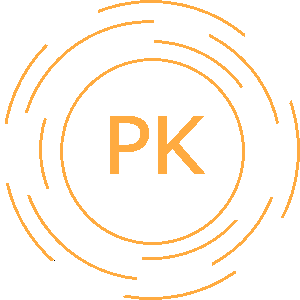
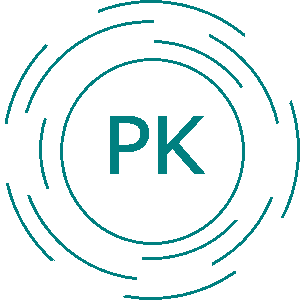
Skills Recolor - Complete. Projects  Recolor - Nav Completed. Contact Recolor Complete. About - Unchanged

diff --git a/src/Layout.js b/src/Layout.js
@@ -20,8 +20,10 @@ class Layout extends Component {
         super();
         this.state = {
             current: "home",
+            custom: "Software Engineer"
         };
     }
+
     inView(elem) {
         var docViewTop = $(window).scrollTop();
         var docViewBottom = docViewTop + $(window).height();
@@ -33,6 +35,13 @@ class Layout extends Component {
     }
 
     componentDidMount() {
+        var link = window.location.href;
+        var custom = link.split("sp=");
+        //console.log(decodeURI(custom[1]));
+        if(custom.length === 2){
+            this.setState({custom: custom[1].replace('+', ' ')});
+        }
+
         // document.getElementById('home').scrollIntoView({block: "end", inline: "nearest", behavior: "smooth"});
         window.history.replaceState(null, '', "/");
         this.scrollSpy();
@@ -49,6 +58,10 @@ class Layout extends Component {
 
     }
 
+    componentWillUnmount() {
+        $(window).unbind('beforeunload');
+    }
+
     scrollSpy() {
         if(this.inView("#homeFinder")){
             if(this.state.current !== "home") {
@@ -59,8 +72,10 @@ class Layout extends Component {
                 if(firstAbout) {
                     if(window.innerWidth > 300) {
                         firstAbout = false;
-                        $("#aboutLeft").fadeIn(2000);
-                        $("#aboutRight").fadeIn(2000);
+                        $("#aboutLeft").fadeIn(1000);
+                        $("#aboutRight").fadeIn(1000, function() {
+                            //$("#aboutBody").addClass('animated bounceInRight');
+                        });
                     }
                 }
                 this.changeNavColor("about");
@@ -70,6 +85,8 @@ class Layout extends Component {
                 if (firstSkill) {
                     firstSkill = false;
                     this.refs.skills.startTyping();
+                    window.Materialize.toast('Click on the Icons!', 2500);
+
                 }
                 this.changeNavColor("skills");
             }
@@ -106,7 +123,7 @@ class Layout extends Component {
                 <Row>
                     <Col s={12}>
                         <Home ref="home"/>
-                        <About ref="about"/>
+                        <About occupation={this.state.custom} ref="about"/>
                         <Skills ref="skills"/>
                         <Projects ref="projects"/>
                         <Contact ref="contact"/>

diff --git a/src/About.js b/src/About.js
@@ -2,11 +2,20 @@ import React, { Component } from 'react';
 import './css/About.css'
 import pkkanPhoto from './assets/pkkan-photo.jpg';
 import {Chip} from 'react-materialize';
+import $ from 'jquery';
 
 class About extends Component {
+    hover() {
+        $("#pk_photo").addClass('animated bounce');
+        //$("#pk_photo").removeClass('animated bounce');
+        setTimeout(function() {
+            $("#pk_photo").removeClass('animated bounce');
+        }, 1000);
+    }
+
     render() {
         return (
-            <div id="about" className="scrollify" data-name="about">
+            <div id="about" className="scrollify" data-name="aboutme">
                 <div id="aboutFinder" className="finder"></div>
                 <div id="aboutTop">
                     <div id="aboutTopLeft"></div>
@@ -14,7 +23,7 @@ class About extends Component {
                 </div>
                 <div id="aboutLeft">
                     <div id="aboutCenter">
-                        <img src={pkkanPhoto} alt="head-shot"/>
+                        <img id="pk_photo" onMouseOver={this.hover.bind(this)} src={pkkanPhoto} alt="head-shot"/>
                         <div id="hobbies">
                             <p>Interests &amp; Hobbies: </p>
                             <Chip>Film</Chip>
@@ -27,7 +36,12 @@ class About extends Component {
                 </div>
                 <div id="aboutRight">
                     <div id="aboutBody">
-                        <p>o k</p>
+                        <div id="aboutBodyTop">
+                            <h2>Hi, I'm Pranay. A {this.props.occupation}.</h2>
+                        </div>
+                        <div id="aboutBodyBot">
+                            <p></p>
+                        </div>
                     </div>
                 </div>
             </div>

diff --git a/src/Skills.js b/src/Skills.js
@@ -2,13 +2,13 @@ import React, { Component } from 'react';
 import './css/Skills.css';
 import {Carousel} from 'react-materialize'
 import $ from 'jquery';
-import cplus from './assets/c++-icon.png';
-import csharp from './assets/c-sharp-icon.png';
-import java from './assets/java-icon.png';
-import javascript from './assets/javascript-icon.png';
-import php from './assets/php-icon.png';
-import python from './assets/python-icon.png';
-import reacticon from './assets/react-icon.png';
+import cplus from './assets/c++-icon.svg';
+import csharp from './assets/c-sharp-icon.svg';
+import java from './assets/java-icon.svg';
+import javascript from './assets/javascript-icon.svg';
+import php from './assets/php-icon.svg';
+import python from './assets/python-icon.svg';
+import reacticon from './assets/react-icon.svg';
 import resume from './assets/Resume.pdf';
 import Typer from './Typer.js'
 
@@ -28,7 +28,7 @@ class Skills extends Component {
 
     render() {
         return (
-            <div id="skills" className="scrollify" data-name="skills">
+            <div id="skills" className="scrollify" data-name="myskills">
                 <div id="skillsFinder" className="finder"></div>
                 <div id="skillsTop">
                     <h1 id="section">Skills</h1>

diff --git a/src/Home.js b/src/Home.js
@@ -5,6 +5,7 @@ import Typed from 'typed.js'
 
 class Home extends Component {
     componentDidMount() {
+        /*
         var colors = ['#F4D21F', '#1AACA8', '#9DCA40', '#DA5A98', '#E5683E',
             '#BC6D21', '#74BB63', '#DA1817', '#2283BC', '#31B495', '#1EB2D8',
             '#EB9D12', '#9DCA40', '#F4D21F', '#1EB2D8', '#E5683E', '#BE2F39',
@@ -30,6 +31,7 @@ class Home extends Component {
                 autoplay: true
             });
         }
+        */
         var options = {
             strings: ["","Web Development", "Mobile Development", "Data Science"],
             typeSpeed: 50,
@@ -42,7 +44,7 @@ class Home extends Component {
 
     render() {
         return (
-            <div id="home" className="scrollify" data-name="home">
+            <div id="home" className="scrollify" data-name="homepage">
                 <div id="homeFinder" className="finder"></div>
                 <div className="anim">
                     <svg xmlns="http://www.w3.org/2000/svg" viewBox="0 0 1400 700">

diff --git a/src/Nav.js b/src/Nav.js
@@ -13,8 +13,8 @@ const navColors  = {
     "home" : "#FFFFFF",
     "about" : "#556B2F",
     "skills" : "#2DA1A1",
-    "projects" : "#FFAB40",
-    "contact" : "#121212"
+    "projects" : "#008080",
+    "contact" : "#000000"
 };
 
 const navLogo  = {
@@ -54,7 +54,12 @@ class Nav extends Component {
         this.setState({logo: navLogo[b]});
     }
 
-
+    hover() {
+        $("#nav").addClass('animated jello');
+        setTimeout(function() {
+            $("#nav").removeClass('animated jello');
+        }, 1000);
+    }
 
     render() {
         return (
@@ -66,7 +71,7 @@ class Nav extends Component {
                     <NavButton ref="navProjects" name="projects"/>
                     <NavButton ref="navContact" name="contact"/>
                 </div>
-                <p><img src={this.state.logo} /></p>
+                <p id="navLogo" onMouseOver={this.hover.bind(this)}><img alt="Logo" src={this.state.logo} /></p>
             </div>
         );
     }

diff --git a/src/Contact.js b/src/Contact.js
@@ -155,7 +155,7 @@ class Contact extends Component {
 
     render() {
         return (
-            <Col s={12} id="contact" className="scrollify" data-name="contact">
+            <Col s={12} id="contact" className="scrollify" data-name="contactme">
                 <Col id="contactHeader" className="contactCenter" s={6}>
                     <Col s={11}>
                         <h2>Contact</h2>
@@ -193,9 +193,9 @@ class Contact extends Component {
                         </div>
                     </form>
                 </Col>
-                <footer>
+                {/*<footer>
                     <p>Designed and developed by Pranay Kandru<br></br>Skills Icons from <a href="https://icons8.com/">Icons8</a></p>
-                </footer>
+                </footer>*/}
             </Col>
         );
     }

diff --git a/src/css/Skills.scss b/src/css/Skills.scss
@@ -5,7 +5,7 @@
      * Original from  Toptal Subtle Patterns
      * at https://www.toptal.com/designers/subtlepatterns/japanese-sayagata/
      * by Olga Libby*/
-    background-image: url("../assets/sayagata-red.png");
+    background-image: url("../assets/sayagata-gray.png");
     font-family: $ubuntuFont;
     @include setMain(transparent);
     animation: moveReverseDiag 10s linear infinite;
@@ -81,7 +81,7 @@
     border-radius: 10px 10px 0 0;
     color: $colorWhite;
     font-family: $ubuntuFont;
-    padding: 10px 10px 0 10px;
+    padding: 20px 20px 0 20px;
 }
 
 .typed-cursor{
@@ -91,7 +91,7 @@
 }
 
 #typedSpan {
-    white-space: pre;
+    white-space: pre-line;
 }
 
 #resume {

diff --git a/src/NavButton.js b/src/NavButton.js
@@ -3,6 +3,14 @@ import './css/Nav.css';
 import $ from "jquery";
 import 'jquery-scrollify'
 
+const navAnchor  = {
+    "home" : "homepage",
+    "about" : "aboutme",
+    "skills" : "myskills",
+    "projects" : "myprojects",
+    "contact" : "contactme"
+};
+
 class NavButton extends Component {
     constructor(props) {
         super(props);
@@ -10,7 +18,7 @@ class NavButton extends Component {
     }
 
     scrollTo() {
-        $.scrollify.move("#"+this.title);
+        $.scrollify.move("#"+navAnchor[this.title]);
     }
 
     activeNav() {

diff --git a/src/css/About.scss b/src/css/About.scss
@@ -55,8 +55,8 @@
 }
 
 #aboutBody {
-    @include setDim(50%, 75%);
-    @include transformXY(50%, 14%, 0, -50%);
+    @include setDim(65%, 75%);
+    @include transformXY(50%, 10%, 0, -50%);
     font-size: 1.1em;
 }
 
@@ -66,6 +66,14 @@
     overflow-y: auto;
     margin: 0;
     padding: 10px 20px 40px 20px;
+}
+
+#aboutBodyTop {
+    @include setDim(100%, 40%);
+}
+
+#aboutBodyBot {
+    @include setDim(100%, 60%);
 }
 
 #hobbies .chip {

diff --git a/src/Projects.js b/src/Projects.js
@@ -104,7 +104,7 @@ class Projects extends Component {
     }
     render() {
         return (
-            <Col id="projects" s={12} className="scrollify" data-name="projects">
+            <Col id="projects" s={12} className="scrollify" data-name="myprojects">
                 <div id="projectsStart"></div>
                 <div id="projectsFinder" className="finder"></div>
                 <Col id="projectsBackground" s={12}>

diff --git a/src/Typer.js b/src/Typer.js
@@ -84,7 +84,7 @@ class Typer extends Component {
     render() {
         return (
             <div id="typedBody">
-                &nbsp;kandrupr@github.io:~$ <span id="typedSpan" ref="head" />
+                kandrupr@github.io:~$ <span id="typedSpan" ref="head" />
             </div>
         );
     }

diff --git a/src/css/Shared.scss b/src/css/Shared.scss
@@ -4,7 +4,7 @@ $aboutBackgroundRight: #424242;
 $colorWhite: white;
 $colorBlack: black;
 
-$contactColor: #FFB2B2;
+$contactColor: #4e9db5;
 $contactFont: 'Fira Mono', monospace;
 
 $projectRed: #C12101 ;
